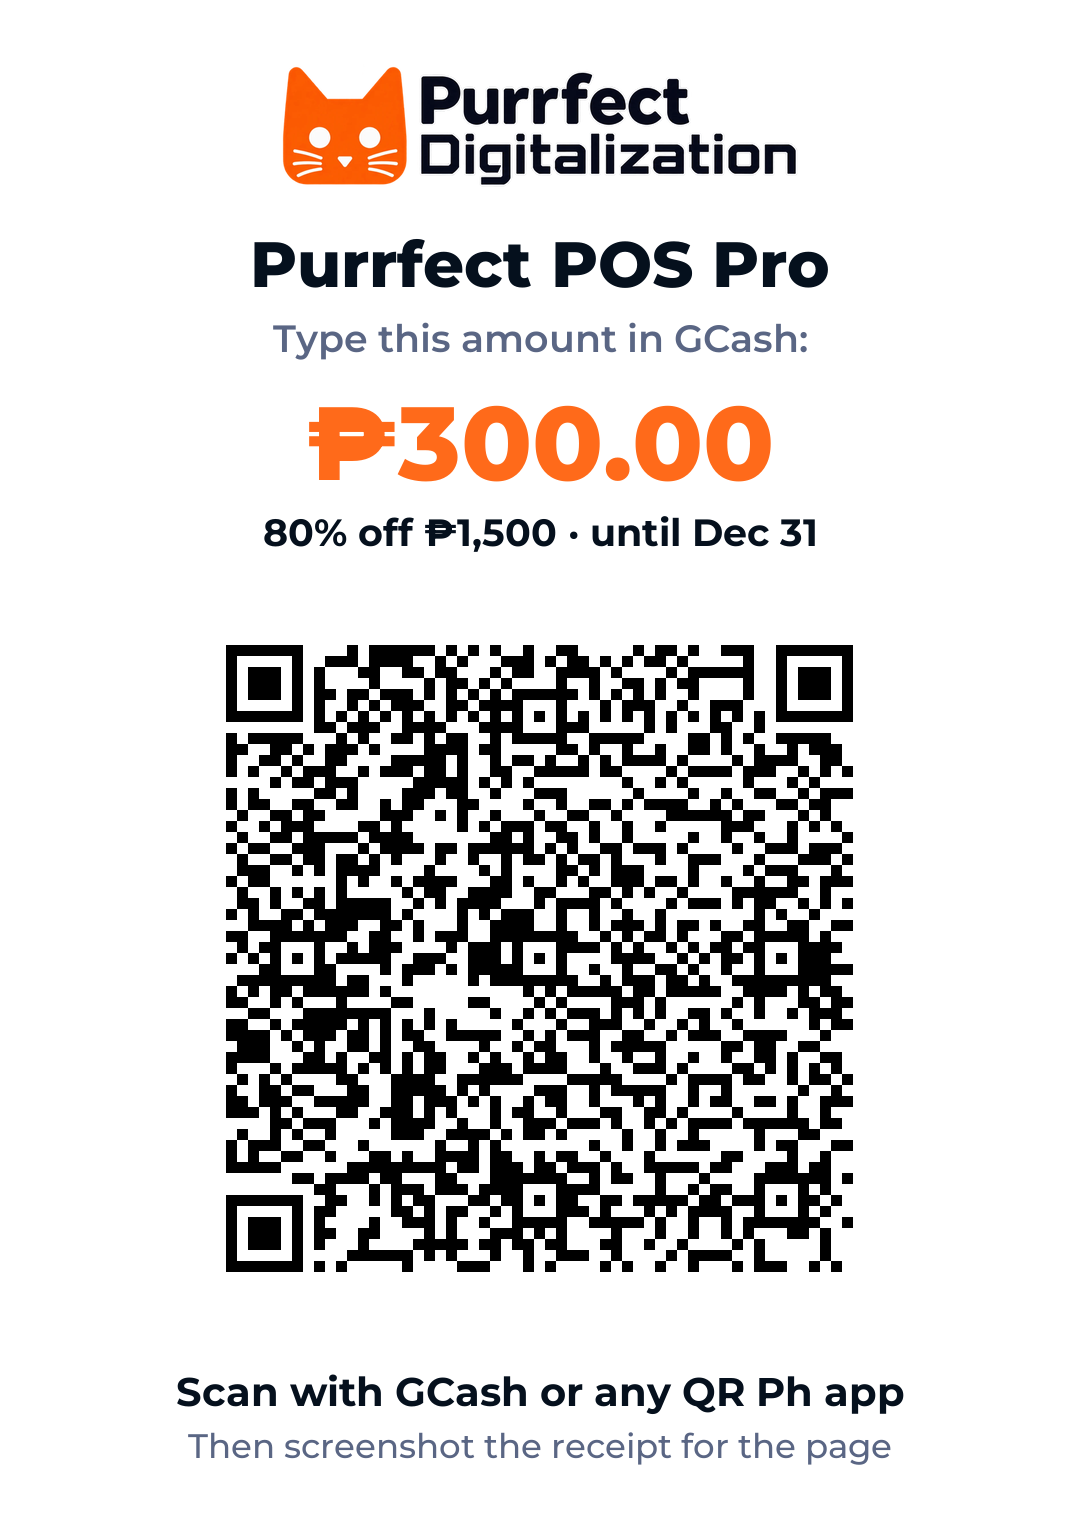
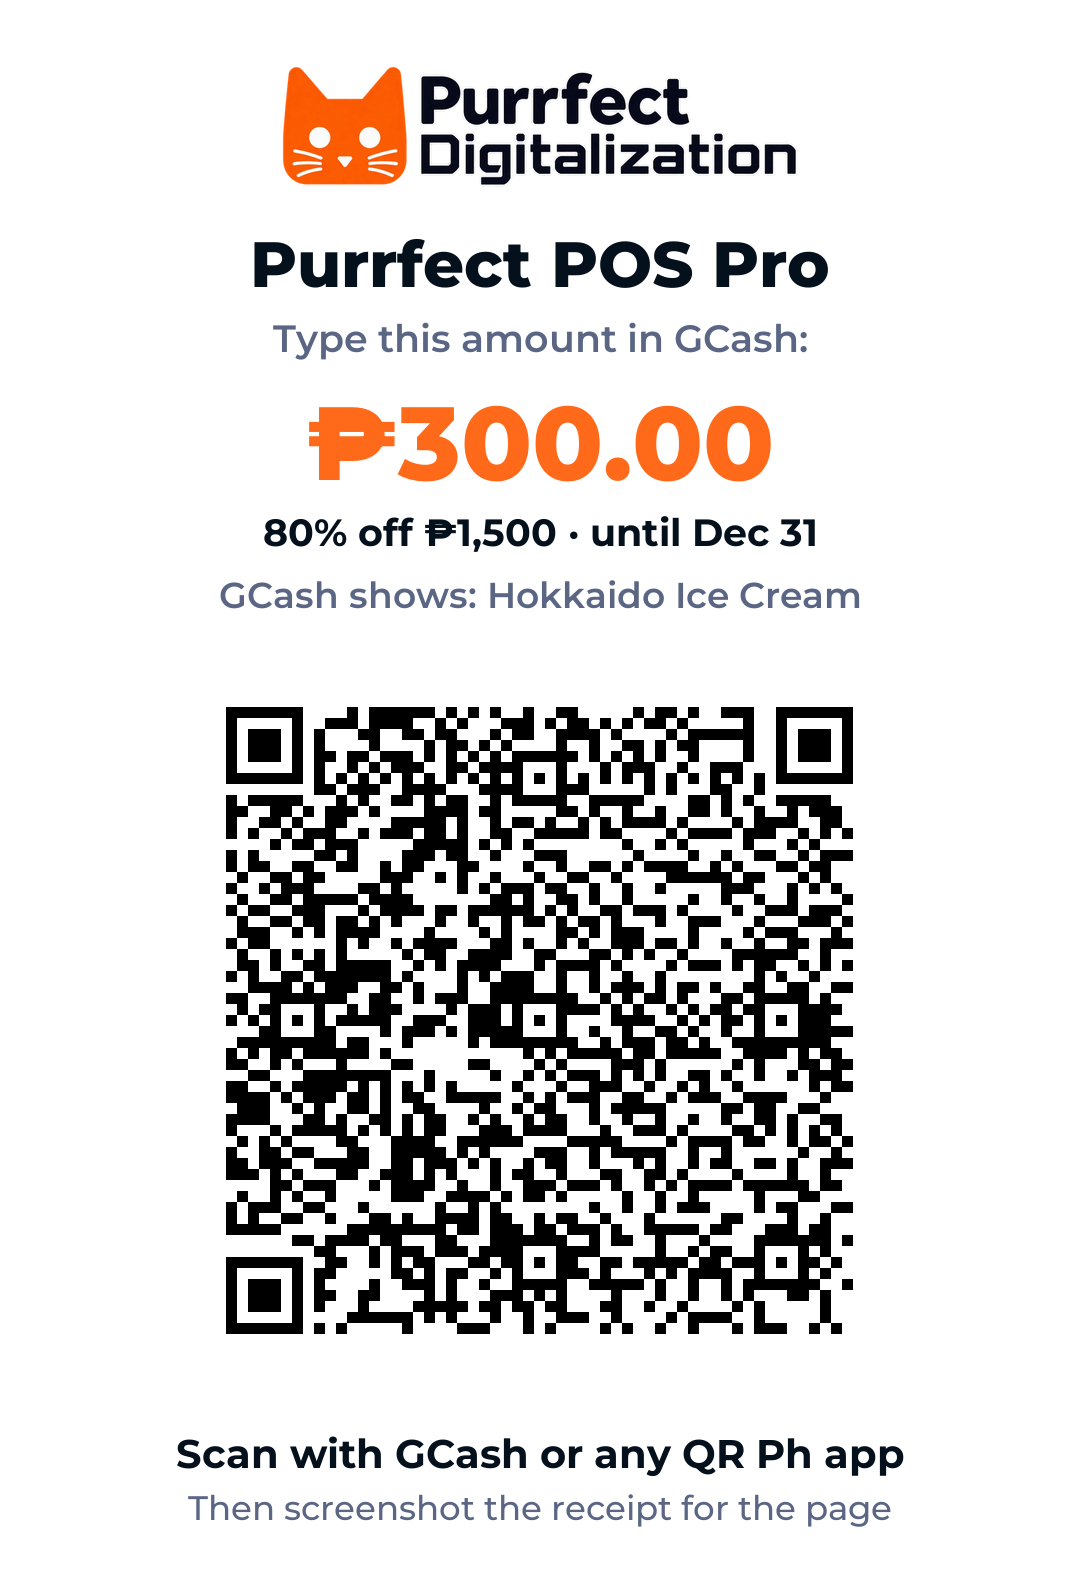
Purrfect POS checkout: say the GCash name is Hokkaido Ice Cream
Pay steps, balance box, How buying works, a FAQ and the Save QR cards now say GCash shows
Hokkaido Ice Cream, so buyers don't hesitate when they scan.

Changed region(s): [[0.1833, 0.1537, 0.7944, 0.8607], [0.1528, 0.8914, 0.8556, 0.9529], [0.2444, 0.0307, 0.7333, 0.123]]

diff --git a/point-of-sale.html b/point-of-sale.html
@@ -596,7 +596,7 @@ html:not([data-promo=off]) .promo-off{display:none!important}
       <h2>Pay with GCash, get your key by email.</h2>
     </div>
     <div class="steps3">
-      <div class="card"><h3>Pay <span class="promo-on">₱179</span><span class="promo-off">₱299</span> with GCash</h3><p>Fill in your details below, scan our GCash QR and type the amount. Then add a screenshot of your GCash receipt: the page checks the amount, date and Ref. No. right away, and asks for the rest if it’s short.</p></div>
+      <div class="card"><h3>Pay <span class="promo-on">₱179</span><span class="promo-off">₱299</span> with GCash</h3><p>Fill in your details below, scan our GCash QR (the name shows as Hokkaido Ice Cream) and type the amount. Then add a screenshot of your GCash receipt: the page checks the amount, date and Ref. No. right away, and asks for the rest if it’s short.</p></div>
       <div class="card"><h3>Get your license key</h3><p>We confirm every payment in GCash, usually within a few hours between 8 AM and 10 PM. Your key arrives by email and on this page.</p></div>
       <div class="card"><h3>Open the link and sell</h3><p>The link in the email activates the app by itself. One license is for 1 phone, tablet or computer.</p></div>
     </div>
@@ -642,7 +642,7 @@ html:not([data-promo=off]) .promo-off{display:none!important}
             <div>
               <div class="amtbig">Type <span class="promo-on">₱179.00</span><span class="promo-off">₱299.00</span></div>
               <ol>
-                <li>Scan the QR with GCash. <b>On this phone?</b> Tap Save QR, then in GCash tap Pay QR, Upload QR, and pick the saved image.</li>
+                <li>Scan the QR with GCash. It shows the name <b>Hokkaido Ice Cream</b>: that’s our GCash account. <b>On this phone?</b> Tap Save QR, then in GCash tap Pay QR, Upload QR, and pick the saved image.</li>
                 <li>Type the amount <b><span class="promo-on">179.00</span><span class="promo-off">299.00</span></b> exactly, then pay. Any QR Ph app works too (Maya, bank apps).</li>
                 <li><b>Screenshot the receipt</b> GCash shows after you pay (amount, date and Ref. No.). Don’t crop or edit it: you add it in the next step.</li>
               </ol>
@@ -667,7 +667,7 @@ html:not([data-promo=off]) .promo-off{display:none!important}
               <div>
                 <div class="amtbig"></div>
                 <ol>
-                  <li>Scan the same QR and type the amount above, then pay.</li>
+                  <li>Scan the same QR (it shows <b>Hokkaido Ice Cream</b>) and type the amount above, then pay.</li>
                   <li><b>On this phone?</b> Tap Save QR, then in GCash tap Pay QR, Upload QR.</li>
                   <li>Screenshot that receipt and add it here too.</li>
                 </ol>
@@ -736,7 +736,7 @@ html:not([data-promo=off]) .promo-off{display:none!important}
             <div>
               <div class="amtbig">Type <span class="promo-on">₱300.00</span><span class="promo-off">₱1,500.00</span></div>
               <ol>
-                <li>Scan the QR with GCash. <b>On this phone?</b> Tap Save QR, then in GCash tap Pay QR, Upload QR, and pick the saved image.</li>
+                <li>Scan the QR with GCash. It shows the name <b>Hokkaido Ice Cream</b>: that’s our GCash account. <b>On this phone?</b> Tap Save QR, then in GCash tap Pay QR, Upload QR, and pick the saved image.</li>
                 <li>Type the amount <b><span class="promo-on">300.00</span><span class="promo-off">1,500.00</span></b> exactly, then pay. Any QR Ph app works too (Maya, bank apps).</li>
                 <li><b>Screenshot the receipt</b> GCash shows after you pay (amount, date and Ref. No.). Don’t crop or edit it: you add it in the next step.</li>
               </ol>
@@ -761,7 +761,7 @@ html:not([data-promo=off]) .promo-off{display:none!important}
               <div>
                 <div class="amtbig"></div>
                 <ol>
-                  <li>Scan the same QR and type the amount above, then pay.</li>
+                  <li>Scan the same QR (it shows <b>Hokkaido Ice Cream</b>) and type the amount above, then pay.</li>
                   <li><b>On this phone?</b> Tap Save QR, then in GCash tap Pay QR, Upload QR.</li>
                   <li>Screenshot that receipt and add it here too.</li>
                 </ol>
@@ -816,6 +816,7 @@ html:not([data-promo=off]) .promo-off{display:none!important}
       <details><summary>Can I try it before paying?</summary><p>Yes. The <a href="pos/" target="_blank" rel="noopener" style="color:var(--accent)">free demo</a> is the full app with sample items; receipts just print “DEMO”. Add your own items there, on the device you’ll sell on: they stay when you activate. On iPhone, add it to your Home Screen first and set up in that icon.</p></details>
       <details><summary>How soon do I get my license key?</summary><p>We check each GCash payment by hand, usually within a few hours between 8 AM and 10 PM. The key comes by email and also shows on this page once confirmed.</p></details>
       <details><summary>What if I paid the wrong amount?</summary><p>Add your GCash receipt anyway: the page reads the amount, and if it’s short it tells you exactly how much is left to pay with the same QR. Paid too much? Message us on Facebook and we’ll sort it out.</p></details>
+      <details><summary>Why does GCash show Hokkaido Ice Cream?</summary><p>That’s the name on our GCash account, so it’s the right place to pay. Your GCash receipt shows it too, and that’s the receipt you add on this page.</p></details>
       <details><summary>Is Purrfect POS BIR-accredited?</summary><p>No. It is a register and sales tracker, not a BIR-accredited POS machine, so its receipts say “This is not an official receipt”. Keep issuing your BIR-registered receipts or invoices as usual.</p></details>
       <details><summary>Which printers work?</summary><p>Most Bluetooth thermal receipt printers (58 mm and 80 mm) sold on Shopee and Lazada, from Chrome on Android, Windows or Mac. If Chrome can’t find yours, the free RawBT app on Android connects it. On a computer you can also use the normal print dialog.</p></details>
       <details><summary>Does it work on iPhone?</summary><p>Yes for selling, receipts on screen and reports. iPhones can’t talk to Bluetooth printers from a web app, so for printed receipts use an Android phone or tablet, or a computer.</p></details>
